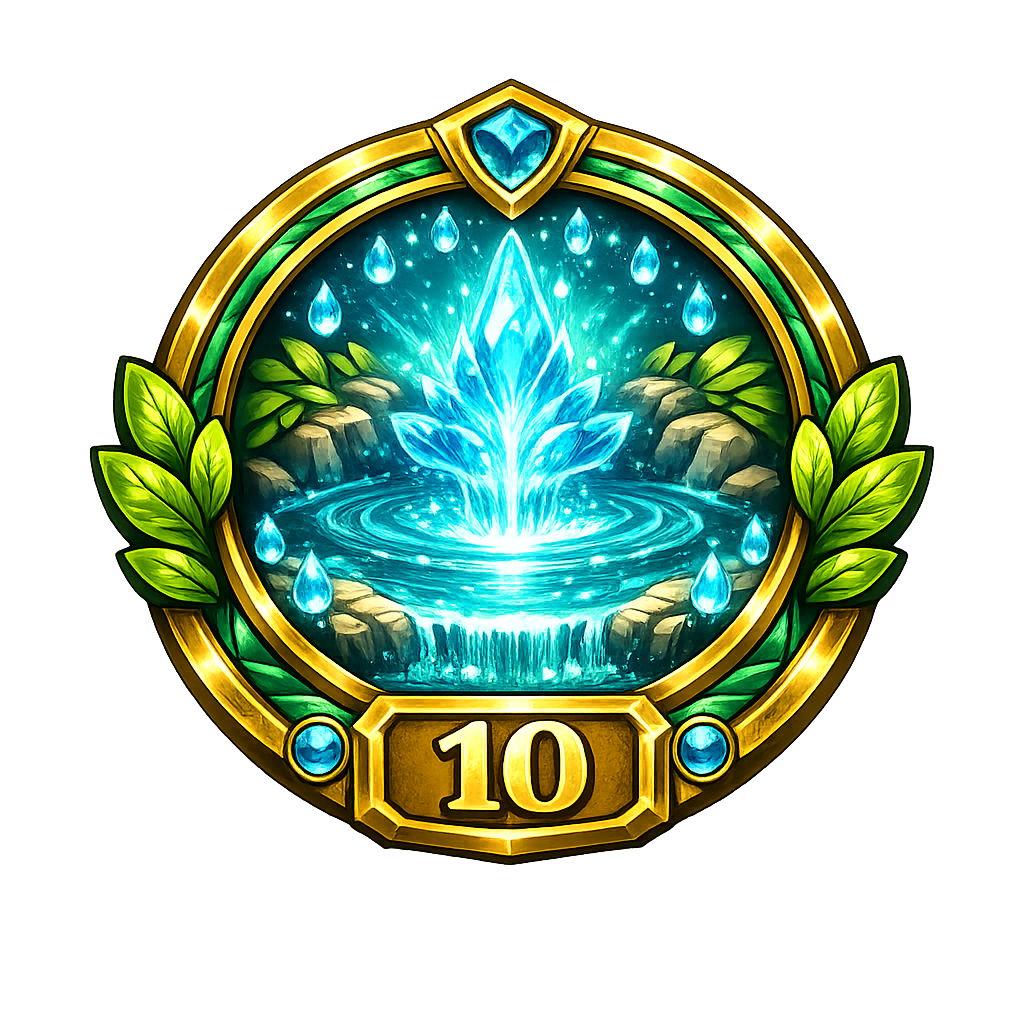
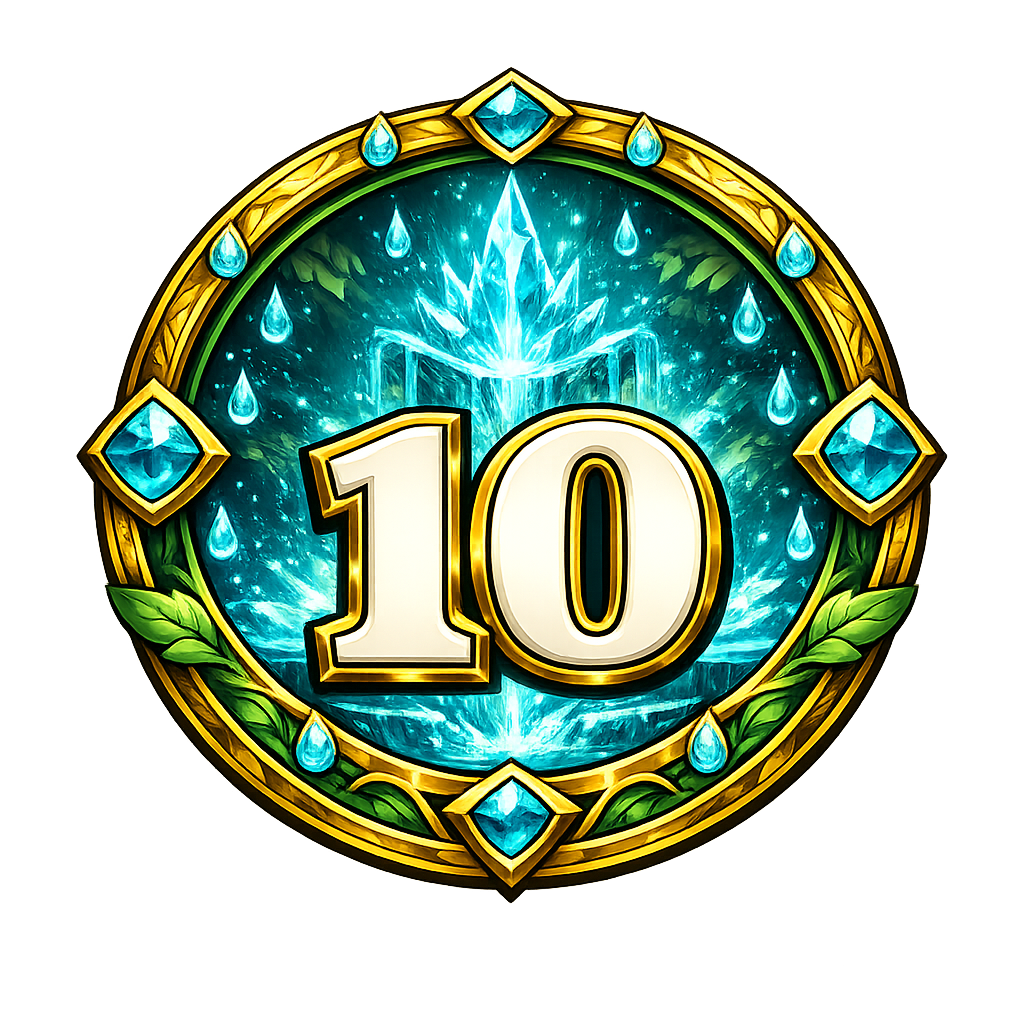
feat: 새 뱃지와 숲 배경 인증서 적용

diff --git a/index.html b/index.html
@@ -808,11 +808,13 @@
         .racer__label {
             position: absolute;
             top: 50%;
-            right: calc(100% + .15rem);
+            right: calc(100% - .1rem);
             z-index: 2;
-            max-width: 6.75rem;
+            width: 6.5rem;
             text-align: center;
             white-space: normal;
+            word-break: keep-all;
+            overflow-wrap: normal;
             line-height: 1.15;
             transform: translateY(-50%);
         }
@@ -1053,6 +1055,7 @@
             .racer img { width: 3rem !important; height: 3rem !important; }
             .racer__label,
             .race-goal__label { padding: .1rem .35rem !important; font-size: .58rem !important; }
+            .racer__label { width: 4rem; }
             .racer--knight { bottom: 1.15rem !important; }
             .racer--monster { bottom: 3.6rem !important; }
             #battle-spring-img { width: 3.5rem !important; height: 3.5rem !important; margin-top: .15rem !important; }
@@ -2477,48 +2480,60 @@
             ctx.closePath();
         }
 
-        function drawCertificateBadge(ctx, unit, x, y, size, count) {
+        function loadCertificateImage(src) {
+            return new Promise(resolve => {
+                const image = new Image();
+                image.onload = () => resolve(image);
+                image.onerror = () => resolve(null);
+                image.src = src;
+            });
+        }
+
+        function drawImageCover(ctx, image, x, y, width, height) {
+            const scale = Math.max(width / image.naturalWidth, height / image.naturalHeight);
+            const sourceWidth = width / scale;
+            const sourceHeight = height / scale;
+            const sourceX = (image.naturalWidth - sourceWidth) / 2;
+            const sourceY = (image.naturalHeight - sourceHeight) / 2;
+            ctx.drawImage(image, sourceX, sourceY, sourceWidth, sourceHeight, x, y, width, height);
+        }
+
+        function drawCertificateBadge(ctx, image, unit, x, y, size, count) {
             ctx.save();
             ctx.shadowColor = 'rgba(18,60,49,.28)';
             ctx.shadowBlur = 18;
             ctx.shadowOffsetY = 8;
-            const outer = ctx.createLinearGradient(x, y, x + size, y + size);
-            outer.addColorStop(0, '#ffe58a');
-            outer.addColorStop(.45, '#c99324');
-            outer.addColorStop(1, '#78530e');
-            ctx.fillStyle = outer;
+            ctx.fillStyle = '#c99324';
             ctx.beginPath();
             ctx.arc(x + size / 2, y + size / 2, size / 2, 0, Math.PI * 2);
             ctx.fill();
             ctx.restore();
 
             ctx.save();
-            const inner = ctx.createRadialGradient(x + size * .45, y + size * .35, 8, x + size / 2, y + size / 2, size * .43);
-            inner.addColorStop(0, '#67e8f9');
-            inner.addColorStop(.5, '#0891b2');
-            inner.addColorStop(1, '#064e3b');
-            ctx.fillStyle = inner;
             ctx.beginPath();
-            ctx.arc(x + size / 2, y + size / 2, size * .4, 0, Math.PI * 2);
-            ctx.fill();
+            ctx.arc(x + size / 2, y + size / 2, size / 2 - 2, 0, Math.PI * 2);
+            ctx.clip();
+            if (image) {
+                drawImageCover(ctx, image, x, y, size, size);
+            } else {
+                const fallback = ctx.createRadialGradient(x + size * .45, y + size * .35, 8, x + size / 2, y + size / 2, size * .48);
+                fallback.addColorStop(0, '#67e8f9');
+                fallback.addColorStop(.55, '#0891b2');
+                fallback.addColorStop(1, '#064e3b');
+                ctx.fillStyle = fallback;
+                ctx.fillRect(x, y, size, size);
+                ctx.fillStyle = '#fff7d6';
+                ctx.font = `900 ${unit === 10 ? 66 : 76}px "Malgun Gothic", sans-serif`;
+                ctx.textAlign = 'center';
+                ctx.textBaseline = 'middle';
+                ctx.fillText(String(unit), x + size / 2, y + size / 2 + 4);
+            }
+            ctx.restore();
 
-            ctx.fillStyle = 'rgba(255,255,255,.86)';
-            ctx.beginPath();
-            ctx.moveTo(x + size / 2, y + 31);
-            ctx.bezierCurveTo(x + 42, y + 72, x + 50, y + 102, x + size / 2, y + 105);
-            ctx.bezierCurveTo(x + size - 50, y + 102, x + size - 42, y + 72, x + size / 2, y + 31);
-            ctx.fill();
-
-            ctx.fillStyle = '#0b2922';
-            drawRoundedRect(ctx, x + 24, y + size - 62, size - 48, 58, 18);
-            ctx.fill();
-            ctx.fillStyle = '#ffffff';
-            ctx.font = `900 ${unit === 10 ? 48 : 54}px "Malgun Gothic", sans-serif`;
-            ctx.textAlign = 'center';
-            ctx.fillText(String(unit), x + size / 2, y + size - 17);
-
+            ctx.save();
             ctx.fillStyle = '#123c31';
             ctx.font = '900 28px "Malgun Gothic", sans-serif';
+            ctx.textAlign = 'center';
             ctx.fillText(`×${count}`, x + size / 2, y + size + 34);
             ctx.restore();
         }
@@ -2534,12 +2549,29 @@
                 year: 'numeric', month: 'long', day: 'numeric',
                 hour: '2-digit', minute: '2-digit', second: '2-digit'
             }).format(now);
+            const canUseCanvasAssets = location.protocol !== 'file:';
+            const [backgroundImage, badge1Image, badge10Image] = canUseCanvasAssets
+                ? await Promise.all([
+                    loadCertificateImage(BUNDLED_ASSETS.bg),
+                    loadCertificateImage(BUNDLED_ASSETS.springBadge1),
+                    loadCertificateImage(BUNDLED_ASSETS.springBadge10)
+                ])
+                : [null, null, null];
+
             const background = ctx.createLinearGradient(0, 0, canvas.width, canvas.height);
-            background.addColorStop(0, '#fbf4df');
-            background.addColorStop(.55, '#f4e7c3');
-            background.addColorStop(1, '#e8d29a');
+            background.addColorStop(0, '#123c31');
+            background.addColorStop(.55, '#0b2922');
+            background.addColorStop(1, '#071c18');
             ctx.fillStyle = background;
             ctx.fillRect(0, 0, canvas.width, canvas.height);
+            if (backgroundImage) {
+                ctx.save();
+                ctx.filter = 'blur(14px) brightness(.62) saturate(.82)';
+                drawImageCover(ctx, backgroundImage, -28, -28, canvas.width + 56, canvas.height + 56);
+                ctx.restore();
+                ctx.fillStyle = 'rgba(3, 35, 29, .34)';
+                ctx.fillRect(0, 0, canvas.width, canvas.height);
+            }
 
             ctx.strokeStyle = '#123c31';
             ctx.lineWidth = 18;
@@ -2548,7 +2580,7 @@
             ctx.lineWidth = 5;
             ctx.strokeRect(53, 53, canvas.width - 106, canvas.height - 106);
 
-            ctx.fillStyle = 'rgba(18,60,49,.06)';
+            ctx.fillStyle = 'rgba(246,196,83,.11)';
             for (let x = 90; x < canvas.width; x += 120) {
                 ctx.beginPath();
                 ctx.arc(x, 690, 34, 0, Math.PI * 2);
@@ -2556,14 +2588,17 @@
             }
 
             ctx.textAlign = 'center';
-            ctx.fillStyle = '#0b2922';
+            ctx.fillStyle = '#fff4c7';
             ctx.font = '800 48px "Malgun Gothic", sans-serif';
+            ctx.shadowColor = 'rgba(0,0,0,.48)';
+            ctx.shadowBlur = 10;
             ctx.fillText('물방울 기사의 수학 모험 인증서', 600, 132);
-            ctx.fillStyle = '#81611f';
+            ctx.shadowBlur = 0;
+            ctx.fillStyle = '#bae6e2';
             ctx.font = '700 21px "Malgun Gothic", sans-serif';
             ctx.fillText('생명의 샘을 지킨 오늘의 학습 기록', 600, 174);
 
-            ctx.fillStyle = '#ffffffaa';
+            ctx.fillStyle = 'rgba(255,250,235,.91)';
             drawRoundedRect(ctx, 105, 210, 990, 410, 32);
             ctx.fill();
             ctx.strokeStyle = 'rgba(18,60,49,.22)';
@@ -2595,8 +2630,8 @@
             const tens = Math.floor(state.springCount / 10);
             const ones = state.springCount % 10;
             const groups = [];
-            if (tens > 0) groups.push({ unit: 10, count: tens });
-            if (ones > 0) groups.push({ unit: 1, count: ones });
+            if (tens > 0) groups.push({ unit: 10, count: tens, image: badge10Image });
+            if (ones > 0) groups.push({ unit: 1, count: ones, image: badge1Image });
 
             if (groups.length === 0) {
                 ctx.textAlign = 'center';
@@ -2609,15 +2644,15 @@
                 const totalWidth = groups.length * badgeSize + (groups.length - 1) * gap;
                 const startX = 865 - totalWidth / 2;
                 groups.forEach((group, index) => {
-                    drawCertificateBadge(ctx, group.unit, startX + index * (badgeSize + gap), 315, badgeSize, group.count);
+                    drawCertificateBadge(ctx, group.image, group.unit, startX + index * (badgeSize + gap), 315, badgeSize, group.count);
                 });
             }
 
             ctx.textAlign = 'center';
-            ctx.fillStyle = '#123c31';
+            ctx.fillStyle = '#ecfeff';
             ctx.font = '800 24px "Malgun Gothic", sans-serif';
             ctx.fillText('오늘도 한 페이지씩, 생명의 샘에 더 가까워졌습니다.', 600, 682);
-            ctx.fillStyle = '#81611f';
+            ctx.fillStyle = '#f6d675';
             ctx.font = '700 18px "Malgun Gothic", sans-serif';
             ctx.fillText('물방울 기사와 함께한 숲속 수학 Adventure', 600, 724);
         }